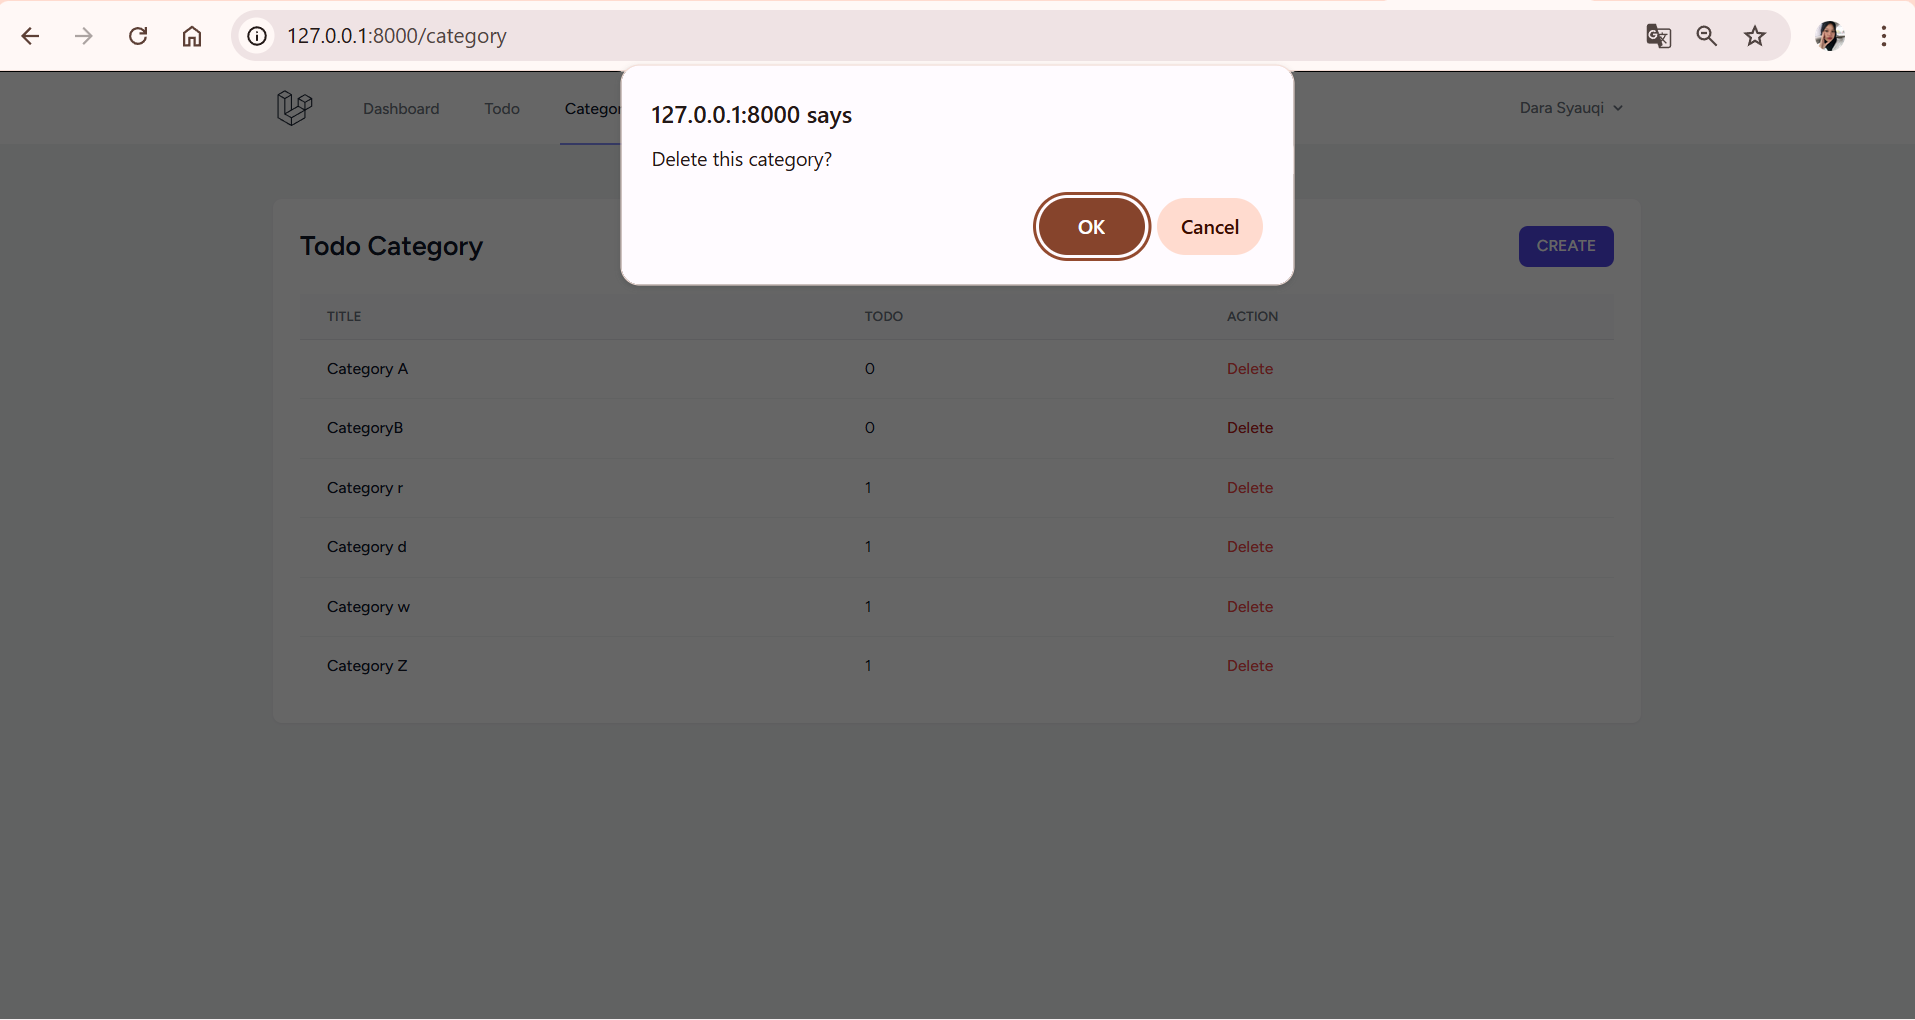
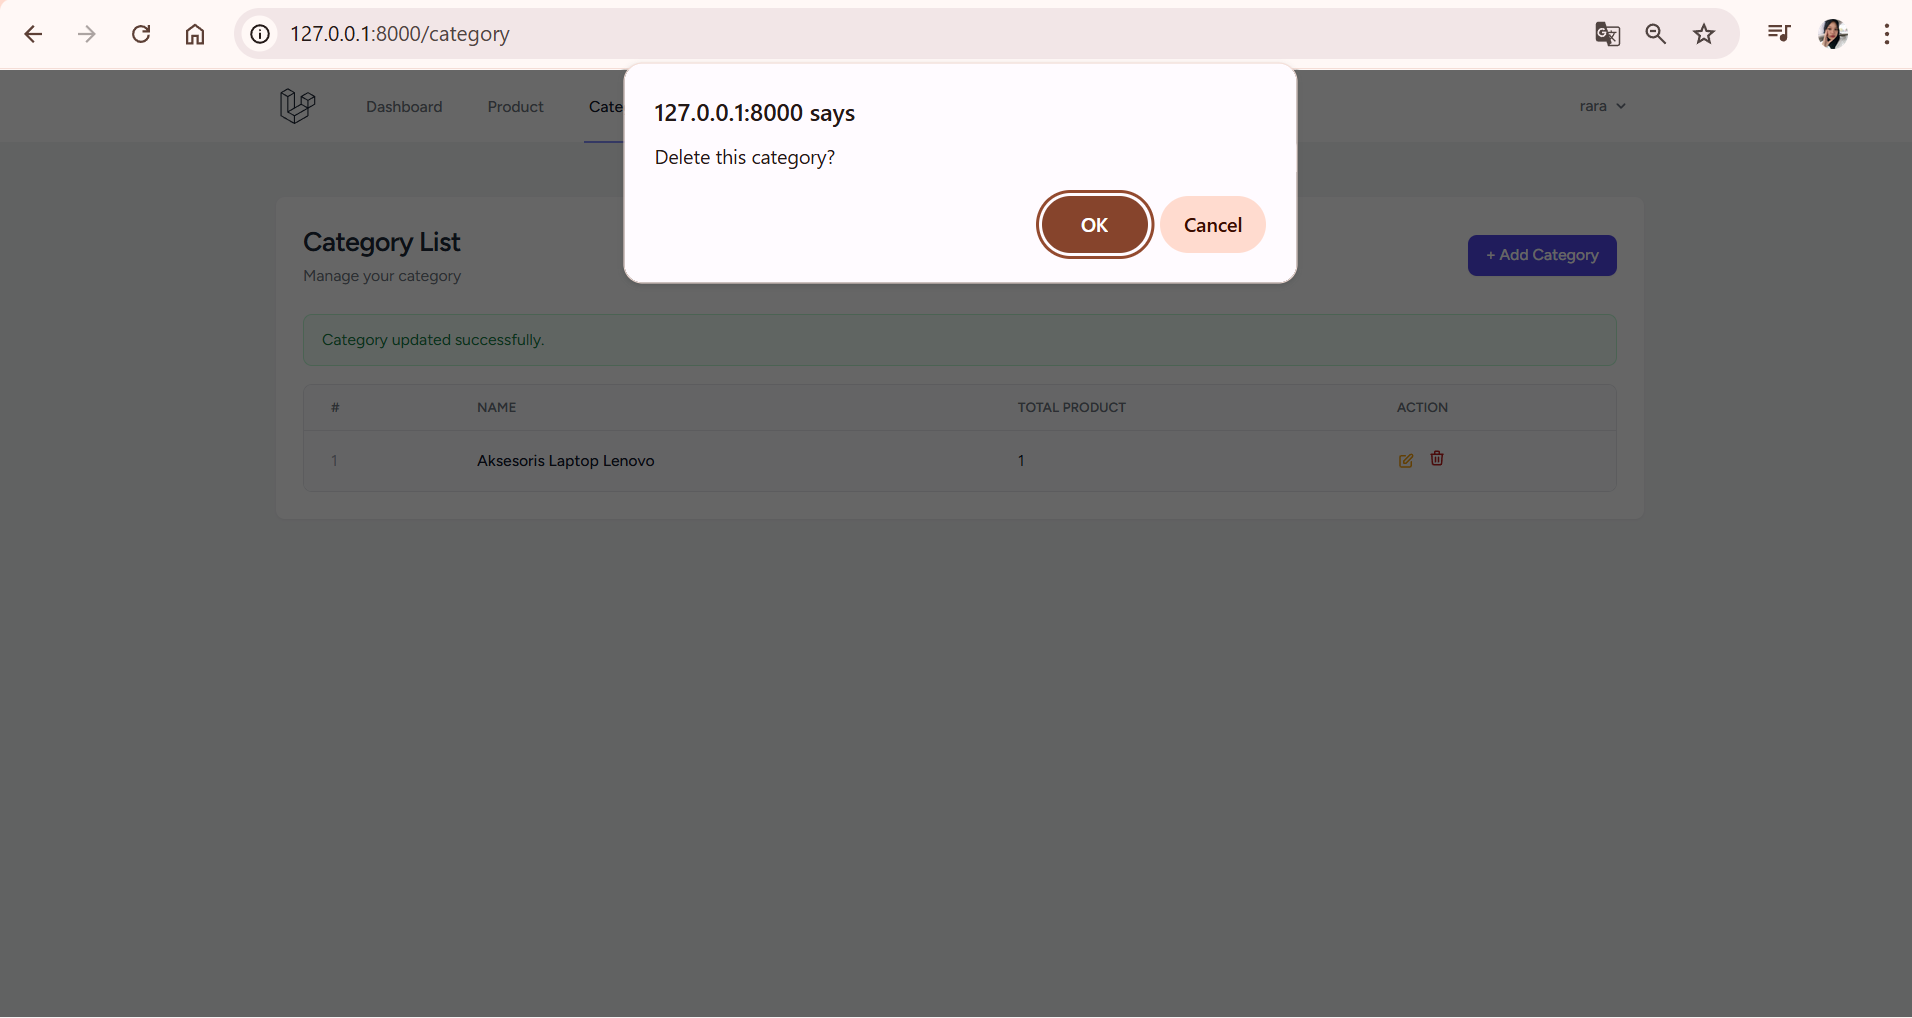
update ucp1.md dan ssan

diff --git a/UCP1.md b/UCP1.md
@@ -1,87 +1,70 @@
 # Praktikum Web Framework - UCP 1
-# Dara S Darmawan - 20230140140
+# Dara Syauqi Darmawan - 20230140140
 
-## Todo & Category Management
-
-# 1. Todo Category
-
-![Todo Category](ss/TodoCategory-UCP1.png)
+## Category & Product Relationship
 
 ---
 
-# 2. Create Category
+# 1. Dashboard Admin
 
-![Create Category](ss/Create-Category-UCP1.png)
-
----
-
-# 3. After Create Category
-
-![After Create Category](ss/After-Create-Category-UCP1.png)
+![Dashboard Admin](ss/dashboard-admin-ucp1.png)
 
 ---
 
-# 4. Todo Page
+# 2. Dashboard User
 
-![Todo](ss/Todo-UCP1.png)
-
----
-
-# 5. Todo List
-
-![Todo List](ss/Todo-List-UCP1.png)
+![Dashboard User](ss/dashboard-user-ucp1.png)
 
 ---
 
-# 6. Todo Create
+# 3. Category List
 
-![Todo Create](ss/Todo-Create-UCP1.png)
-
----
-
-# 7. After Create Todo
-
-![After Create Todo](ss/After-Create-Todo-UCP1.png)
+![Category List](ss/category-ucp1.png)
 
 ---
 
-# 8. After Create Todo (Category)
+# 4. Add Category
 
-![After Create Todo Category](ss/After-Create-Todo(Category)-UCP1.png)
-
-
----
-
-# 9. Todo Complete
-
-![Todo Complete](ss/Todo-Complete-UCP1.png)
+![Add Category](ss/add-category-ucp1.png)
 
 ---
 
-# 10. Todo Delete
+# 5. Edit Category
 
-![Todo Delete](ss/Todo-Delete-UCP1.png)
+![Edit Category](ss/edit-category-ucp1.png)
 
 ---
 
-# 11. Delete Category
+# 6. Delete Category
 
 ![Delete Category](ss/Delete-Category-UCP1.png)
 
 ---
 
-# 12. Database Categories
+# 7. Category List Setelah Add Product
 
-![Database Categories](ss/Database-Categories-UCP1.png)
-
----
-
-# 13. Database Todos
-
-![Database Todos](ss/Database-todos-UCP1.png)
+![Category List After Add Product](ss/category-list-after-addproduct-ucp1.png)
 
 ---
 
-# 14. Changes
+# 8. Add Product (dengan Kategori)
 
-![Changes](ss/Changes-UCP1.png)
+![Add Product](ss/add-product-ucp1.png)
+
+---
+
+# 9. Product List
+
+![Product List](ss/product-list-ucp1.png)
+
+---
+
+# 10. Database Category
+
+![Database Category](ss/database-category-ucp1.png)
+
+---
+
+# 11. Database Product
+
+![Database Product](ss/database-product-ucp1.png)
